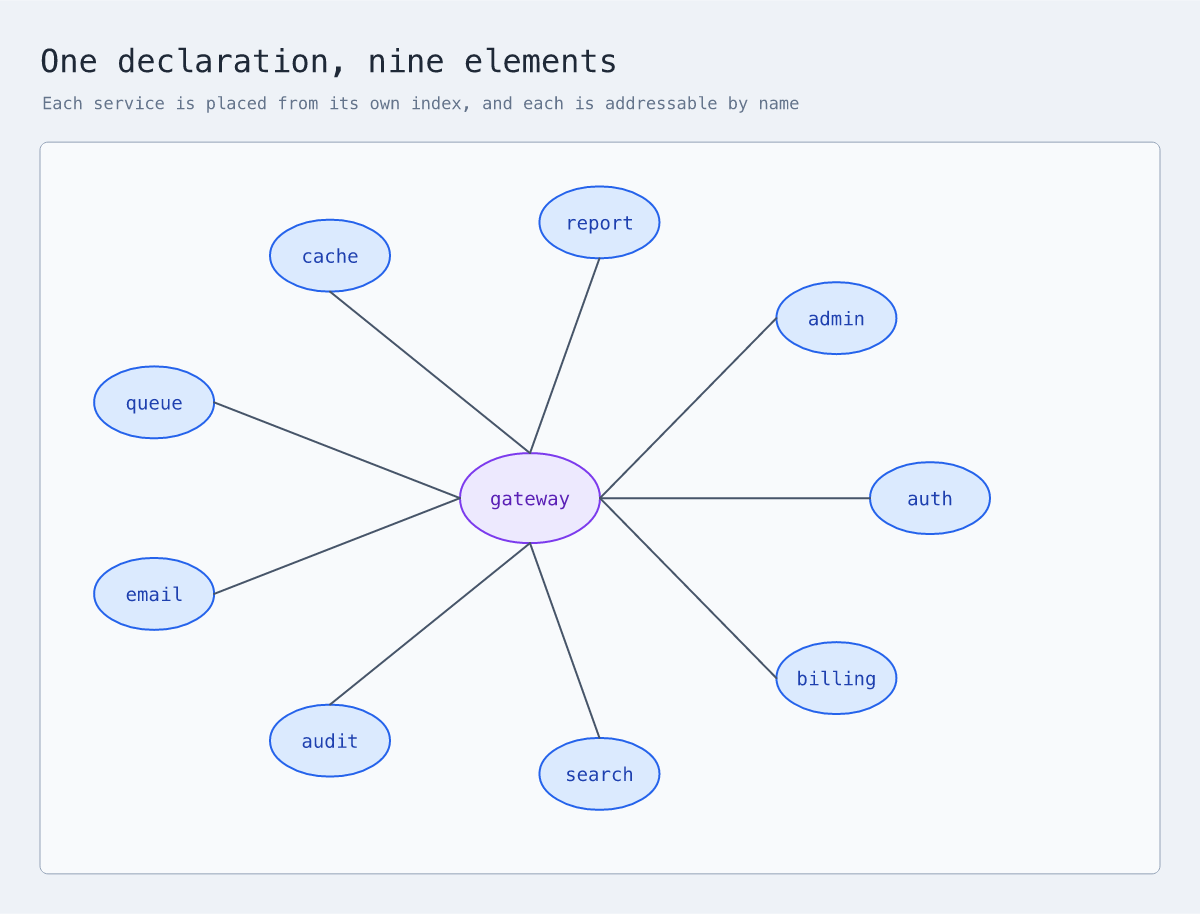
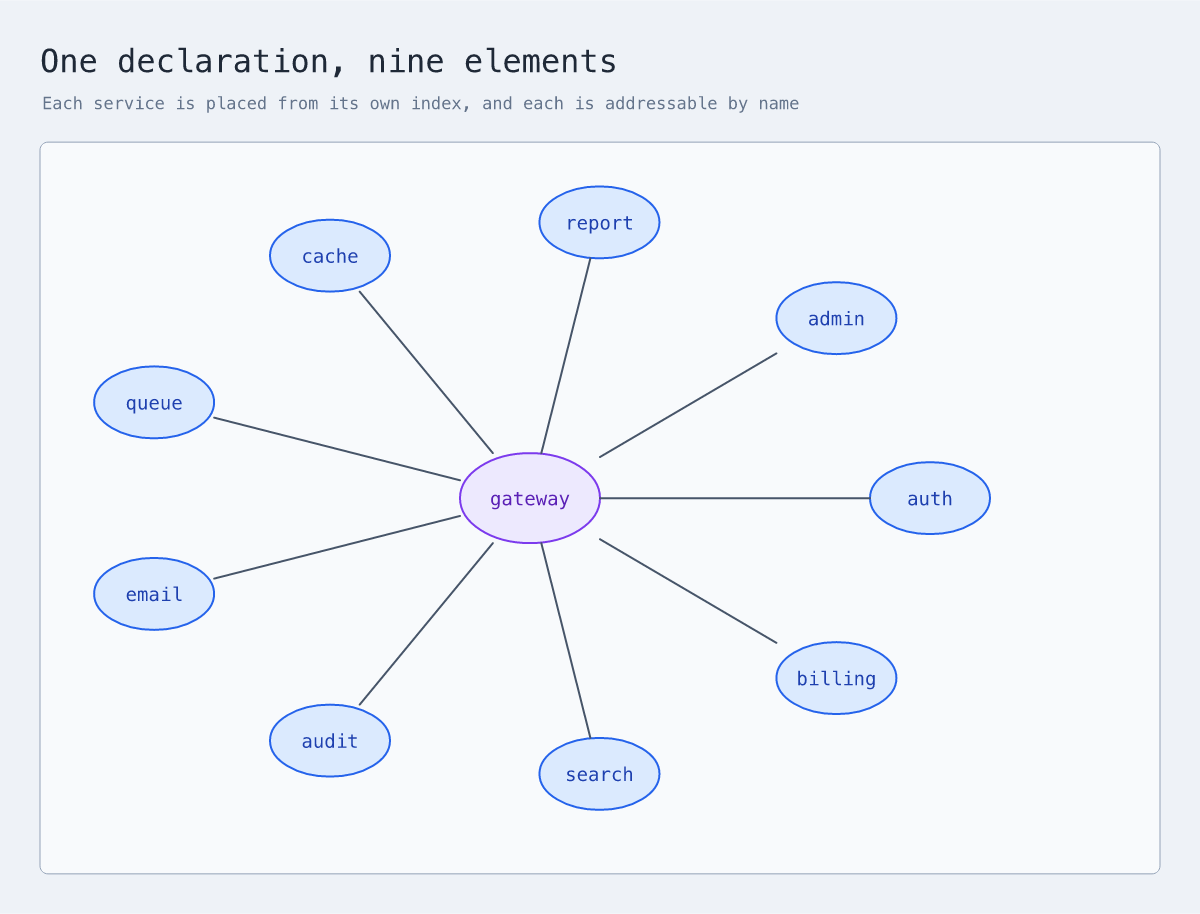
fix: attach a straight connector where it crosses the border
The four cardinal anchors answer which side a connector leaves by, not
where on that side, and every connector resolving to the same side got
that side's midpoint. On a hub with links in six directions the four
diagonals all resolved to top or bottom, so they left from two points
rather than four and appeared to sprout from one spot.

A straight run between two shapes should meet each border where it
genuinely crosses. Compute that intersection when the style is straight
or line and neither endpoint names an anchor. Writing '@top' still asks
for that side's midpoint and still gets it, and routed styles keep
midpoints because their first segment leaves perpendicular to the side.

Two figures change, both radial, both for the better.

diff --git a/test/connectors.test.ts b/test/connectors.test.ts
@@ -375,3 +375,43 @@ test("dense routed connectors avoid unrelated node interiors", () => {
   const direct = [[120, 135], [520, 135]];
   assert.equal(measureRouteQuality([direct], [obstacle]).obstacleIntersections, 1);
 });
+
+test("a straight run meets each border where it crosses, not at a side midpoint", () => {
+  // Four spokes leaving a hub diagonally all resolve to the same cardinal side,
+  // so anchoring them at that side's midpoint made every one appear to start
+  // from a single point. A hub-and-spoke is the shape that shows it.
+  const drawing = compile(parse(`diagram "Radial" {
+    hub: rectangle "" { at (460, 260); size (80, 80) }
+    ne: rectangle "" { at (700, 100); size (80, 80) }
+    nw: rectangle "" { at (220, 100); size (80, 80) }
+    se: rectangle "" { at (700, 420); size (80, 80) }
+    sw: rectangle "" { at (220, 420); size (80, 80) }
+    hub -- ne
+    hub -- nw
+    hub -- se
+    hub -- sw
+  }`)).toJSON();
+  const starts = drawing.elements
+    .filter((item) => item.type === "line")
+    .map((item) => `${Math.round(item.x + item.points[0][0])},${Math.round(item.y + item.points[0][1])}`);
+  assert.equal(starts.length, 4);
+  assert.equal(new Set(starts).size, 4, `four spokes should leave four points, got ${starts.join(" ")}`);
+  // Each start is on the hub's border, never inside it.
+  for (const start of starts) {
+    const [x, y] = start.split(",").map(Number);
+    assert.ok(x === 460 || x === 540 || y === 260 || y === 340, `${start} is not on the hub border`);
+  }
+});
+
+test("an explicit anchor still means that side's midpoint", () => {
+  const drawing = compile(parse(`diagram "Anchored" {
+    hub: rectangle "" { at (460, 260); size (80, 80) }
+    ne: rectangle "" { at (700, 100); size (80, 80) }
+    hub@top -- ne@bottom
+  }`)).toJSON();
+  const line = drawing.elements.find((item) => item.type === "line");
+  assert.deepEqual(
+    [Math.round(line.x + line.points[0][0]), Math.round(line.y + line.points[0][1])],
+    [500, 260],
+  );
+});

diff --git a/src/routing/renderer.ts b/src/routing/renderer.ts
@@ -1,5 +1,5 @@
 import { card, connect } from "../excalidraw/components.ts";
-import { anchor, box } from "../geometry.ts";
+import { anchor, borderPoint, box } from "../geometry.ts";
 import { splitEndpoint } from "./endpoints.ts";
 import { inferredSides, routeConnection } from "./router.ts";
 import type {
@@ -159,8 +159,14 @@ export function renderConnection(
     const waypoints = parseWaypoints(connection.attributes.via);
     const adapterRoute = state.adapterRoutes.get(`${index}:${nodeIndex}`);
     const style = connectionStyle(connection.attributes.style);
-    const start = anchor[startSide](fromBounds);
-    const end = anchor[endSide](toBounds);
+    // A straight run whose sides were inferred meets each border where it
+    // actually crosses. Writing '@top' asks for that side's midpoint and still
+    // gets it, and routed styles keep midpoints because their segments leave
+    // perpendicular to the side.
+    const radial = (style === "straight" || style === "line")
+      && from.side === undefined && to.side === undefined;
+    const start = radial ? borderPoint(fromBounds, anchor.center(toBounds)) : anchor[startSide](fromBounds);
+    const end = radial ? borderPoint(toBounds, anchor.center(fromBounds)) : anchor[endSide](toBounds);
     if (waypoints) {
       if (!connection.generatedRoute) {
         state.diagnostics?.warn("XD2003", "connection via disables automatic obstacle routing", connection);

diff --git a/src/geometry.ts b/src/geometry.ts
@@ -72,6 +72,26 @@ export const anchor: Record<"left" | "right" | "top" | "bottom" | "center", (bou
   ],
 };
 
+/**
+ * Where a ray from the centre of `bounds` towards `target` leaves the border.
+ *
+ * The four cardinal anchors answer "which side", not "where on it", so a hub
+ * with attachments in six directions gives the same midpoint to every connector
+ * that resolves to the same side, and they all appear to start from one point.
+ * A straight run between two shapes should meet each border where it genuinely
+ * crosses, which is what this returns.
+ */
+export function borderPoint(bounds: Bounds, target: Point): Point {
+  const centre = anchor.center(bounds);
+  const dx = target[0] - centre[0];
+  const dy = target[1] - centre[1];
+  if (dx === 0 && dy === 0) return centre;
+  const horizontal = dx === 0 ? Number.POSITIVE_INFINITY : bounds.width / 2 / Math.abs(dx);
+  const vertical = dy === 0 ? Number.POSITIVE_INFINITY : bounds.height / 2 / Math.abs(dy);
+  const scale = Math.min(horizontal, vertical);
+  return [centre[0] + dx * scale, centre[1] + dy * scale];
+}
+
 type AxisProperties =
   | { start: "x"; size: "width" }
   | { start: "y"; size: "height" };

diff --git a/docs/spec.md b/docs/spec.md
@@ -436,7 +436,12 @@ The synonyms `north`, `east`, `south`, and `west` are accepted by the semantic
 model. Authors should prefer the five canonical spellings above.
 
 An anchor selects the attachment side and is not part of the referenced
-element's source ID.
+element's source ID. A written anchor attaches at that side's midpoint. When
+both endpoints of a `straight` or `line` connection omit their anchor, each end
+attaches where the segment between the two centres crosses the border, so
+several connectors leaving one element in different directions do not share a
+point. Routed styles always attach at the midpoint, because their first segment
+leaves perpendicular to the side.
 
 ## 10. Connections
 
